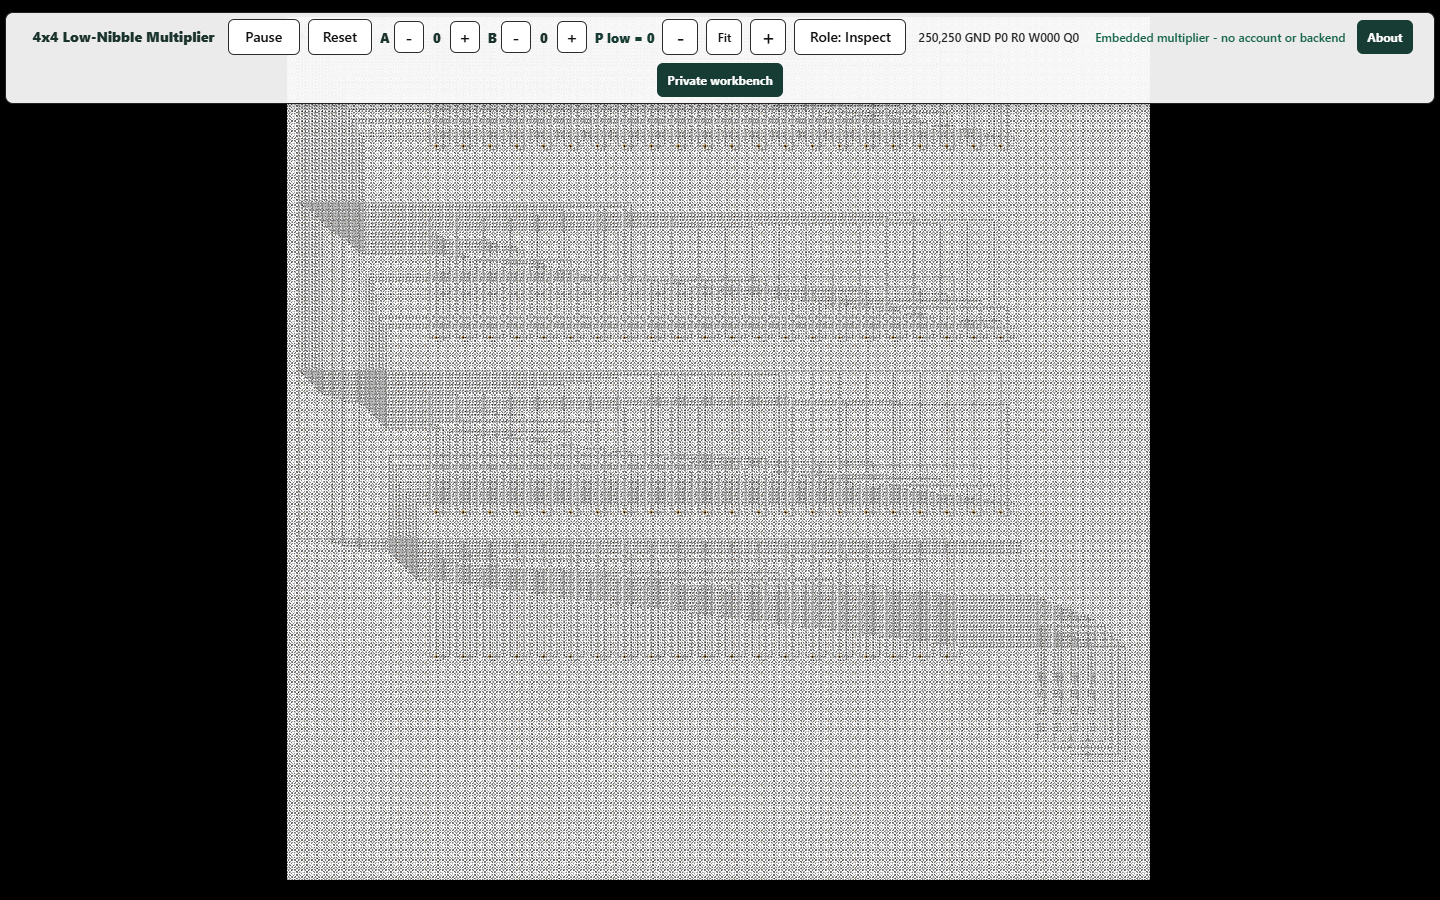
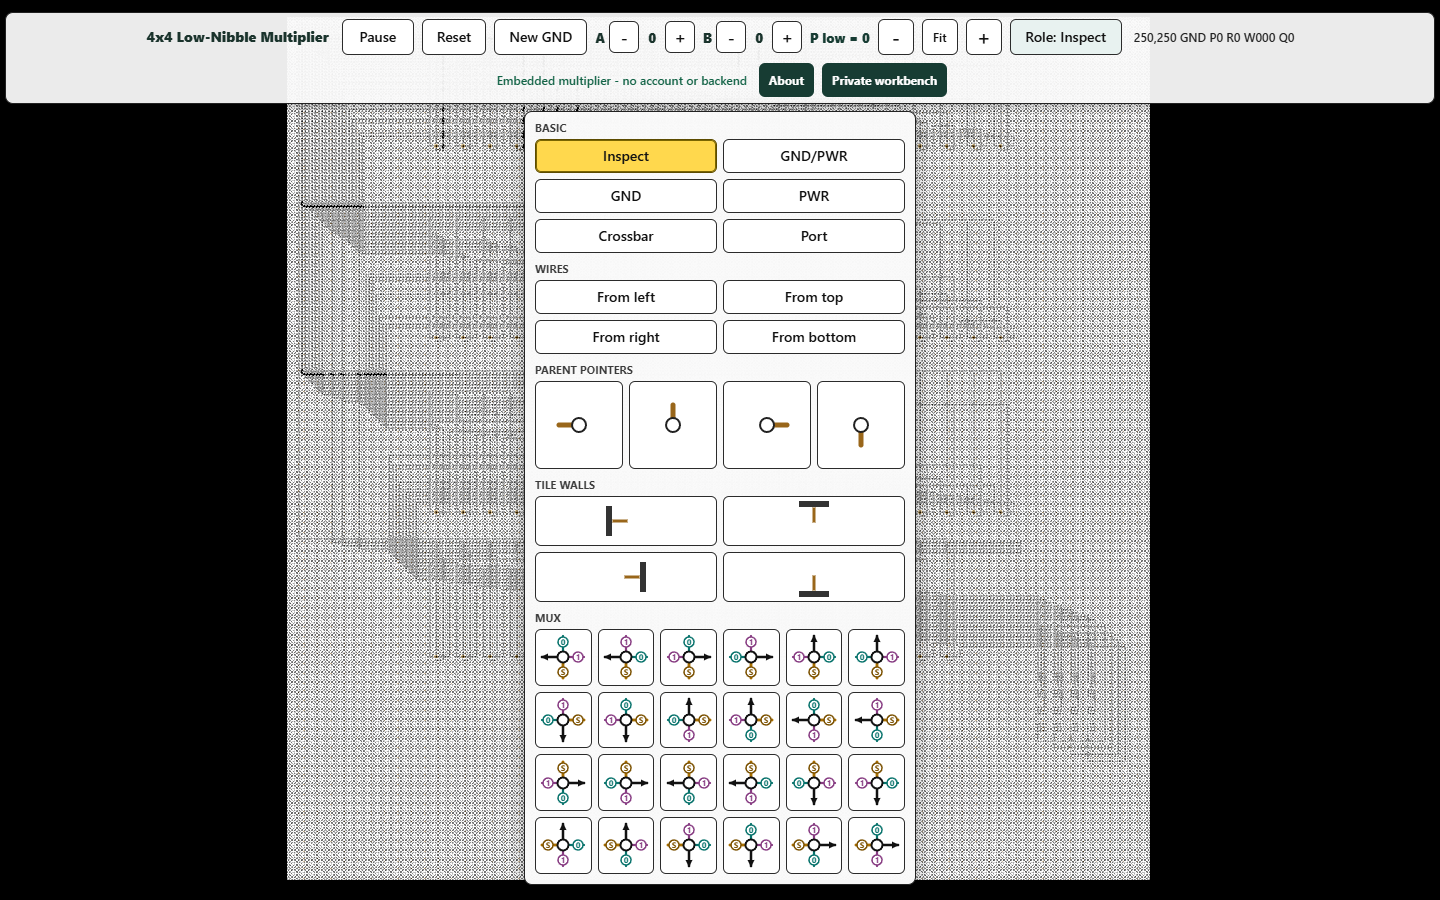
Restore public Cartilage GND editor

Changed region(s): [[0.0312, 0.0, 1.0, 0.9956]]

diff --git a/cartilage-circuit-workstation.html b/cartilage-circuit-workstation.html
@@ -5,11 +5,11 @@
     <meta charset="utf-8">
     <meta name="viewport" content="width=device-width, initial-scale=1, viewport-fit=cover">
     <title>Run Cartilage in the Browser: Open Multiplier and Private Workstation</title>
-    <meta name="description" content="Run an open self-contained Cartilage multiplier, then request access to the private circuit workstation for editing, loading, saving, sharing, and cross-device development.">
+    <meta name="description" content="Run and edit a self-contained Cartilage multiplier, initialize a GND fabric, place cell roles locally, then request private access for loading, saving, sharing, and cross-device development.">
     <meta name="robots" content="index, follow, max-snippet:-1, max-image-preview:large">
     <link rel="canonical" href="https://greenforest.io/cartilage-circuit-workstation.html">
     <meta property="og:title" content="Run Cartilage in the Browser: Open Multiplier and Private Workstation">
-    <meta property="og:description" content="A routed low-nibble Cartilage multiplier now runs as one open browser artifact. Private workstation access adds circuit editing, loading, saving, and ongoing cross-device stream development.">
+    <meta property="og:description" content="Run the routed multiplier or initialize an all-GND Cartilage fabric and place cell roles locally. Private access adds loading, saving, sharing, and ongoing cross-device stream development.">
     <meta property="og:type" content="article">
     <meta property="og:url" content="https://greenforest.io/cartilage-circuit-workstation.html">
     <meta property="article:published_time" content="2026-08-01">
@@ -68,8 +68,8 @@
     <address>August 1, 2026</address>
 
     <section class="abstract">
-        <p class="lead">A complete routed low-nibble multiplier now opens as one self-contained Cartilage machine—no account, no backend, and no installation.</p>
-        <p>The public artifact places a deterministic <code>4×4</code> unsigned multiplier into a <code>256×256</code> WebGL fabric. Change <code>A</code> and <code>B</code>, watch the signals cross the visible field, inspect individual cells, pause propagation, zoom into the route, and reset the entire machine from the circuit embedded in the page.</p>
+        <p class="lead">A complete routed low-nibble multiplier and its cell-role editor now open as one self-contained Cartilage machine—no account, no backend, and no installation.</p>
+        <p>Run the deterministic <code>4×4</code> unsigned multiplier in its <code>256×256</code> WebGL fabric, or initialize the fabric with GND and build directly. The public role menu places GND, PWR, crossings, wires, MUXes, ports, parent pointers, and tile walls by tapping or dragging across cells.</p>
         <div class="cta-row" role="group" aria-label="Cartilage workstation actions">
             <a class="cta-link" href="/cartilage-multiplier-demo/">Run the open multiplier</a>
             <a class="cta-link" href="https://www.linkedin.com/in/briangreenforest" target="_blank" rel="noopener">Request the private demo on LinkedIn</a>
@@ -81,12 +81,12 @@
             <h2>One Click Opens The Circuit Itself</h2>
             <figure class="inspectable-image inspectable-image--fit">
                 <a href="/cartilage-multiplier-demo/">
-                    <img src="/cartilage-multiplier-demo/cartilage-multiplier-demo.png" width="1440" height="900" loading="eager" decoding="async" alt="A 256 by 256 Cartilage WebGL fabric containing the open low-nibble multiplier, with operand, pause, reset, zoom, inspection, and private-workbench controls">
+                    <img src="/cartilage-multiplier-demo/cartilage-multiplier-demo.png" width="1440" height="900" loading="eager" decoding="async" alt="A 256 by 256 Cartilage WebGL fabric containing the open low-nibble multiplier, with operand, New GND, role placement, pause, reset, zoom, and inspection controls">
                 </a>
-                <figcaption>The open artifact contains the multiplier state inside the HTML. Reloading restores the original circuit; nothing is fetched from the private workstation.</figcaption>
+                <figcaption>The open artifact contains the multiplier state and cell editor inside the HTML. Start a GND fabric, place roles locally, and reload whenever you want the original multiplier back.</figcaption>
             </figure>
             <p>The page is not a screenshot or a remote video. It is the running frontend, substantially refactored from the July 31 Cartilage workbench at commit <code>ee2bf38</code>. The two WebGL state planes begin from one embedded native fabric image and continue through the same ping-pong computation engine used by that pinned research build.</p>
-            <p>The public version deliberately has one circuit and one purpose. It has no login form, slot selector, Load button, Save button, credential, private address, server endpoint, browser storage, or driver-source evaluator. The multiplier demo’s only initial network request is the HTML document itself.</p>
+            <p>The public version deliberately has no login form, slot selector, Load button, Save button, credential, private address, server endpoint, browser storage, or driver-source evaluator. Those removals do not restrict authorship: New GND, the complete role menu, cell inspection, and manual role placement all work without authentication. The demo’s only initial network request is the HTML document itself.</p>
         </section>
 
         <section>
@@ -119,8 +119,8 @@
 
         <section>
             <h2>The Private Workstation Opens The Full Authoring Loop</h2>
-            <p>The open multiplier is the public front door. I also make the full authenticated Cartilage workstation available as a private demo for people who want to work with the fabric rather than view one prepared circuit.</p>
-            <p>Private-demo users can edit cell roles, load circuits, save named circuits and revisions, return to saved work, and let friends or colleagues with private access load the same named save and enter a pin-relay room. The username and password are shared directly, never published into the open artifact.</p>
+            <p>The open multiplier already includes local circuit authoring. I also make the authenticated Cartilage workstation available as a private demo for people who want persistence and shared continuity beyond one browser session.</p>
+            <p>Private-demo users keep the same cell-role editing and add circuit loading, named saves and revisions, return access to saved work, and the ability for friends or colleagues with private access to load the same named save and enter a pin-relay room. The username and password are shared directly, never published into the open artifact.</p>
             <div class="reader-note">
                 <p><strong>Want access?</strong> <a href="https://www.linkedin.com/in/briangreenforest" target="_blank" rel="noopener">Reach out to Brian Greenforest on LinkedIn</a> and ask for the private Cartilage demo username and password.</p>
             </div>
@@ -134,7 +134,7 @@
 
         <section>
             <h2>Open The Multiplier, Then Ask For The Workbench</h2>
-            <p>Start with the public multiplier. Change the operands, let the signal wave settle, inspect the MUXes and routes, and reload to recover the embedded circuit. If you want to edit, load, save, share, or follow the physical-streaming work, the private workstation is the next step.</p>
+            <p>Start with the public multiplier, or press New GND and build with the role menu. Change cells freely, inspect the result, and reload to recover the embedded multiplier. If you want to load, save, revisit, and share named circuits or follow the physical-streaming work, the private workstation is the next step.</p>
             <div class="cta-row" role="group" aria-label="Open and private Cartilage demo links">
                 <a class="cta-link" href="/cartilage-multiplier-demo/">Open the self-contained multiplier</a>
                 <a class="cta-link" href="https://www.linkedin.com/in/briangreenforest" target="_blank" rel="noopener">Message Brian on LinkedIn</a>

diff --git a/cartilage-multiplier-demo/index.html b/cartilage-multiplier-demo/index.html
@@ -9,9 +9,9 @@
   <meta name="format-detection" content="telephone=no">
   <meta name="referrer" content="no-referrer">
   <meta name="robots" content="index, follow, max-snippet:-1, max-image-preview:large">
-  <meta name="description" content="Run self-contained 4x4 unsigned inputs with a low-nibble Cartilage product in WebGL. The circuit is embedded in this page; no account, backend, Load, or Save is present.">
+  <meta name="description" content="Run the self-contained low-nibble multiplier or initialize an all-GND Cartilage fabric and place cell roles locally. No account, backend, Load, or Save is present.">
   <meta property="og:title" content="Cartilage 4x4 Low-Nibble Multiplier — Open Browser Demo">
-  <meta property="og:description" content="Change two four-bit inputs and watch their low product bits propagate through one self-contained Cartilage WebGL fabric.">
+  <meta property="og:description" content="Run the routed multiplier or initialize an all-GND Cartilage fabric and place GND, PWR, wire, crossing, MUX, port, parent, and wall roles locally.">
   <meta property="og:type" content="website">
   <meta property="og:url" content="https://greenforest.io/cartilage-multiplier-demo/">
   <link rel="canonical" href="https://greenforest.io/cartilage-multiplier-demo/">
@@ -5045,6 +5045,7 @@ let phaseShift = 30;
 
 const playPauseButton = window.document.getElementById('play-pause');
 const resetButton = window.document.getElementById('reset-demo');
+const newGndButton = window.document.getElementById('new-gnd-fabric');
 const zoomOutButton = window.document.getElementById('zoom-out');
 const zoomInButton = window.document.getElementById('zoom-in');
 const zoomFitButton = window.document.getElementById('zoom-fit');
@@ -5512,10 +5513,20 @@ const roleOptionButtons = [...rolePicker.querySelectorAll('[data-cell-role]')];
 
 window.g_app.selectedCellRoleId = null;
 
+const updateRolePickerMaxHeight = () => {
+  const controlsRect = window.document.getElementById('fabric-controls').getBoundingClientRect();
+  rolePicker.style.maxHeight = `${Math.max(120, window.innerHeight - controlsRect.bottom - 16)}px`;
+};
+
 const setRolePickerOpen = open => {
   rolePicker.hidden = !open;
   rolePickerToggleButton.setAttribute('aria-expanded', open ? 'true' : 'false');
+  if (open) updateRolePickerMaxHeight();
 };
+
+window.addEventListener('resize', () => {
+  if (!rolePicker.hidden) updateRolePickerMaxHeight();
+});
 
 const selectCellRole = roleId => {
   const role = roleId ? cellEditRoles[roleId] : null;
@@ -5727,9 +5738,81 @@ window.g_app.applyCellRole = (cellX, cellY, roleId = window.g_app.selectedCellRo
 };
 
 const multiplierOperands = { a: 0, b: 0, revision: 0 };
+const demoTitle = window.document.querySelector('.demo-title');
 const operandAValue = window.document.getElementById('operand-a-value');
 const operandBValue = window.document.getElementById('operand-b-value');
 const multiplierProduct = window.document.getElementById('multiplier-product');
+const multiplierOperandButtons = [
+  window.document.getElementById('operand-a-down'),
+  window.document.getElementById('operand-a-up'),
+  window.document.getElementById('operand-b-down'),
+  window.document.getElementById('operand-b-up')
+];
+
+const uploadWholeFabricTexture = textureBytes => {
+  const previousActiveTexture = gl.getParameter(gl.ACTIVE_TEXTURE);
+  gl.activeTexture(gl.TEXTURE0);
+  const previousTexture0 = gl.getParameter(gl.TEXTURE_BINDING_2D);
+  for (const fabricTexture of gpgpuTexture) {
+    gl.bindTexture(gl.TEXTURE_2D, fabricTexture.texture);
+    gl.texSubImage2D(
+      gl.TEXTURE_2D,
+      0,
+      0,
+      0,
+      storageTextureWidth,
+      storageTextureHeight,
+      gl.RGBA,
+      gl.UNSIGNED_BYTE,
+      textureBytes
+    );
+  }
+  gl.bindTexture(gl.TEXTURE_2D, previousTexture0);
+  gl.activeTexture(previousActiveTexture);
+};
+
+const initializeGndFabric = () => {
+  newGndButton.disabled = true;
+  try {
+    const gndTexture = buildNativeGndTexture();
+    installNativeTileMetadata(gndTexture, buildFullFabricTileTree());
+    data.set(gndTexture);
+    uploadWholeFabricTexture(gndTexture);
+
+    edgeDataBits.fill(0);
+    edgeEntropySourceMask.fill(0);
+    fabricBoundaryInputBits.fill(0);
+    fabricBoundaryOutputBits.fill(0);
+    fabricBoundaryPackedWords.fill(0);
+    edgeReconfClockBit = 0;
+    edgeReconfFrame = 0;
+    currentRotationPhase = 1;
+    currentRotationPhase2 = 1;
+    Object.assign(window.g_app.reconfigurationControl, {
+      clock: 0, data: 0, enabled: 0, side: 0, index: 0
+    });
+    Object.assign(window.g_app.reconfigurationControl2, {
+      clock: 0, data: 0, enabled: 0, side: 0, index: 0
+    });
+
+    multiplierOperands.revision += 1;
+    multiplierOperandButtons.forEach(button => {
+      button.disabled = true;
+      button.title = 'Reload to restore the embedded multiplier';
+    });
+    demoTitle.textContent = 'Cartilage GND Fabric';
+    multiplierProduct.textContent = 'P low = —';
+    cellInspector.textContent = 'No cell';
+    window.g_app.setPropagationPaused(false);
+    selectCellRole('togglePower');
+    setRolePickerOpen(true);
+    setDemoStatus('Editable GND fabric - choose a role, then tap or drag to place cells', 'dirty');
+  } finally {
+    newGndButton.disabled = false;
+  }
+};
+
+window.g_app.initializeGndFabric = initializeGndFabric;
 
 const readMultiplierProduct = () => {
   let product = 0;
@@ -5774,14 +5857,16 @@ const adjustMultiplierOperand = (name, delta) => {
   applyMultiplierOperands();
 };
 
-window.document.getElementById('operand-a-down').addEventListener(
+multiplierOperandButtons[0].addEventListener(
   'click', () => adjustMultiplierOperand('a', -1));
-window.document.getElementById('operand-a-up').addEventListener(
+multiplierOperandButtons[1].addEventListener(
   'click', () => adjustMultiplierOperand('a', 1));
-window.document.getElementById('operand-b-down').addEventListener(
+multiplierOperandButtons[2].addEventListener(
   'click', () => adjustMultiplierOperand('b', -1));
-window.document.getElementById('operand-b-up').addEventListener(
+multiplierOperandButtons[3].addEventListener(
   'click', () => adjustMultiplierOperand('b', 1));
+
+newGndButton.addEventListener('click', initializeGndFabric);
 
 rolePickerToggleButton.addEventListener('click', () => {
   setRolePickerOpen(rolePicker.hidden);
@@ -8562,7 +8647,7 @@ canvas.is-panning {
   border-radius: 8px;
   background: rgba(250, 250, 250, 0.94);
   box-shadow: 0 2px 8px rgba(0, 0, 0, 0.28);
-  overflow-y: auto;
+  overflow: visible;
   overscroll-behavior: contain;
   user-select: none;
 }
@@ -8866,11 +8951,12 @@ canvas.is-panning {
 }
          </style></head>
 <body>
-  <canvas id="0" width="16" height="16" draggable="false" aria-label="Running Cartilage multiplier fabric"></canvas>
-  <div id="fabric-controls" aria-label="Multiplier controls">
+  <canvas id="0" width="16" height="16" draggable="false" aria-label="Editable Cartilage fabric"></canvas>
+  <div id="fabric-controls" aria-label="Cartilage fabric controls">
     <strong class="demo-title">4x4 Low-Nibble Multiplier</strong>
     <button id="play-pause" type="button" aria-pressed="false">Pause</button>
     <button id="reset-demo" type="button">Reset</button>
+    <button id="new-gnd-fabric" type="button" title="Replace the current circuit with an editable all-GND fabric">New GND</button>
     <span class="operand-control" aria-label="Operand A">
       <span>A</span>
       <button id="operand-a-down" type="button" aria-label="Decrease operand A">-</button>
